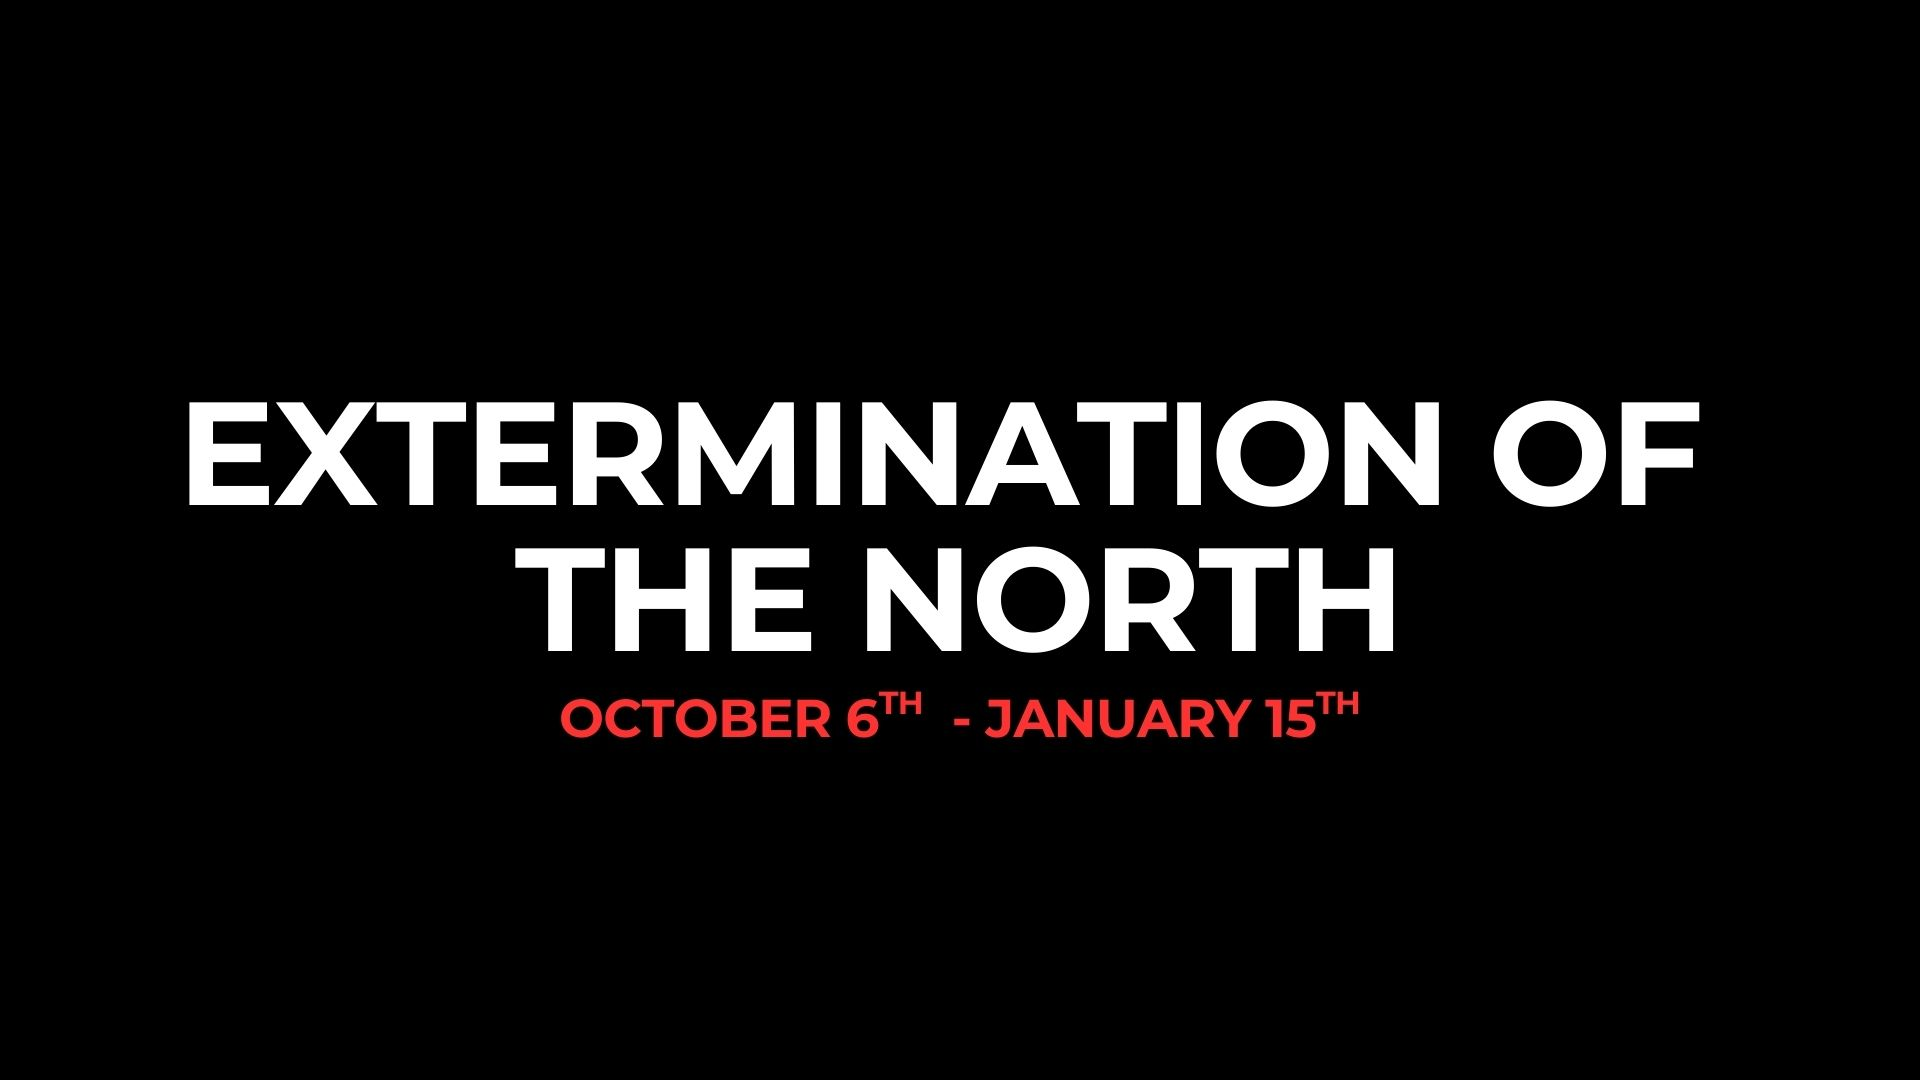
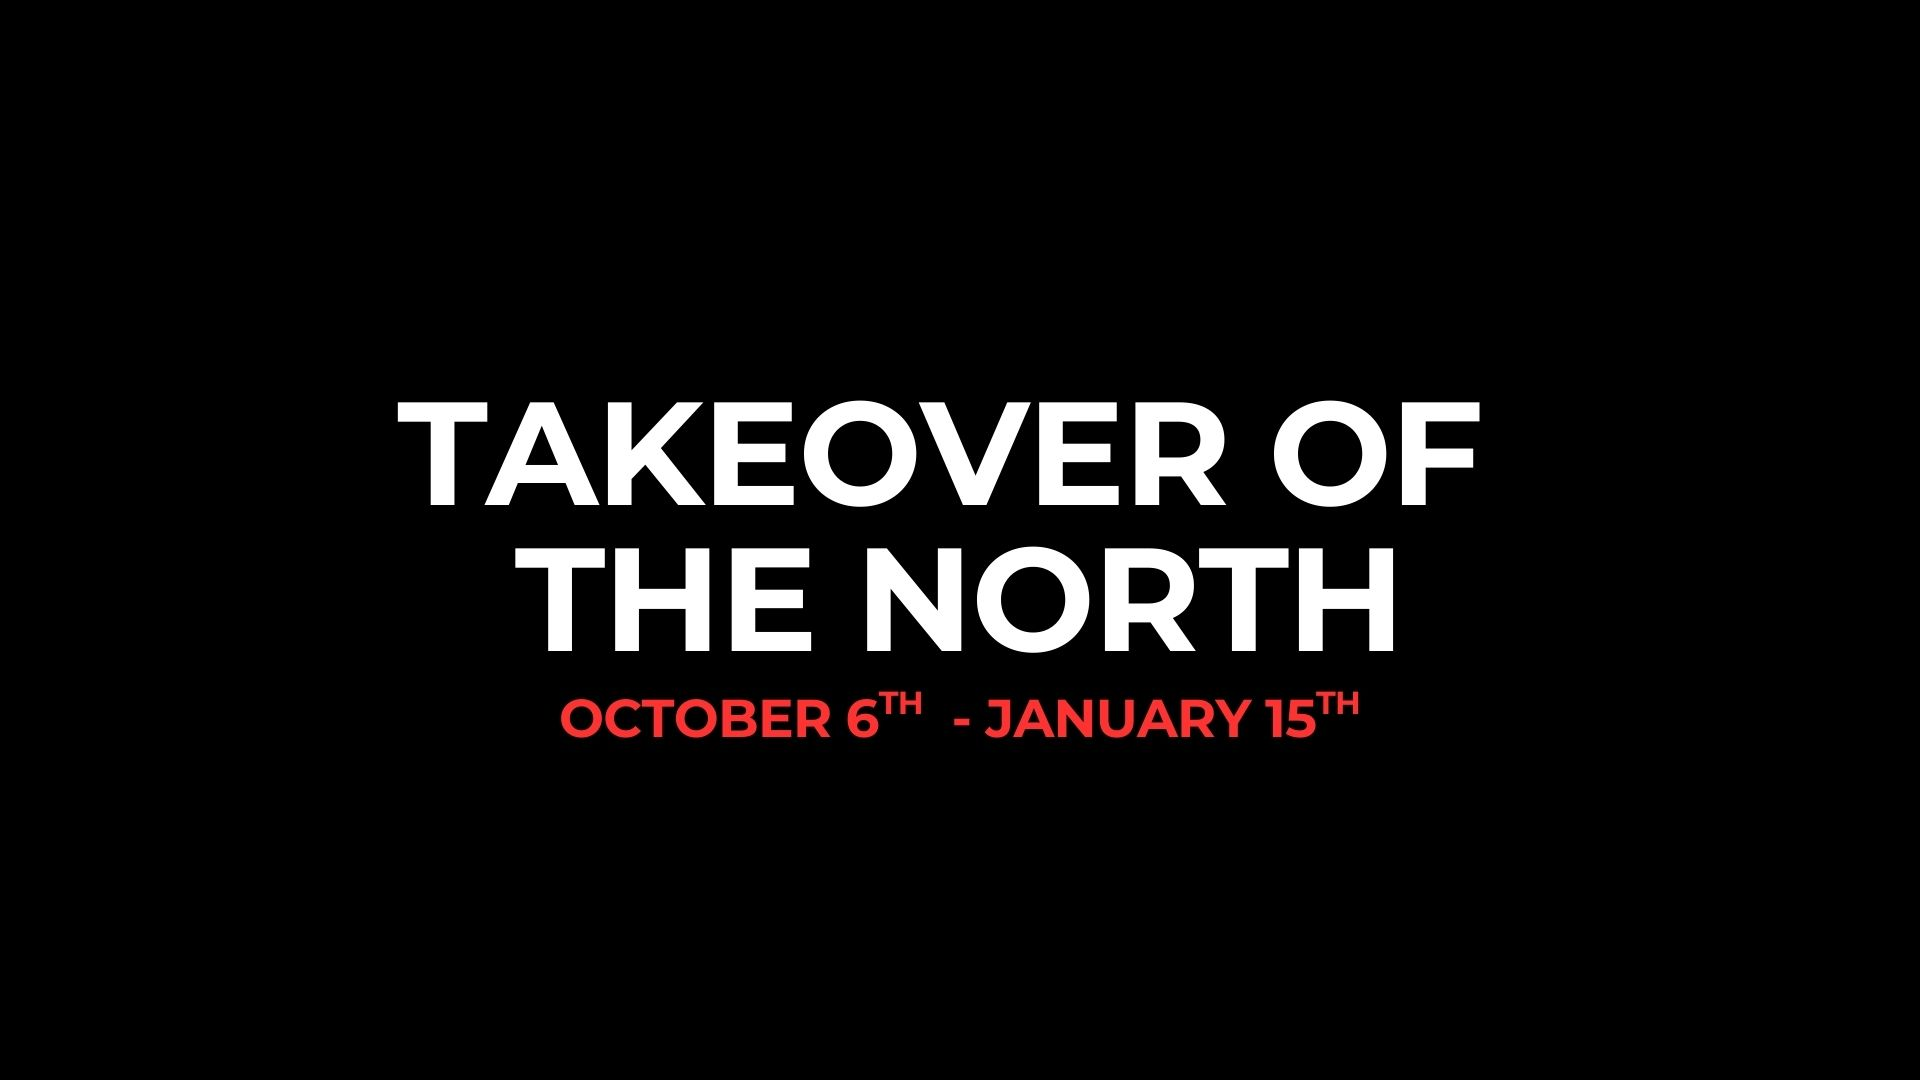
update title and images

Changed region(s): [[0.0938, 0.3667, 0.9062, 0.4889]]

diff --git a/src/timelines/displacementTimeline/phases.5.ts b/src/timelines/displacementTimeline/phases.5.ts
@@ -13,7 +13,7 @@ const init: GazaEvent = {
     { id: "WHOLE_WORLD_FILL", paintOverrides: { "fill-opacity": 1 } },
   ],
 
-  title: "Extermination of the Strip",
+  title: "Annhilation: Laying the Foundation",
 };
 
 const gazaFragmentationPlan: GazaEvent = {

diff --git a/src/timelines/displacementTimeline/phases.4.ts b/src/timelines/displacementTimeline/phases.4.ts
@@ -13,7 +13,7 @@ const init: GazaEvent = {
   ],
   imgSrc: "/images/titles/36.jpg",
 
-  title: "Extermination of the North",
+  title: "Takeover of the North",
 };
 
 const ceaseFireLines: GazaEvent = {
